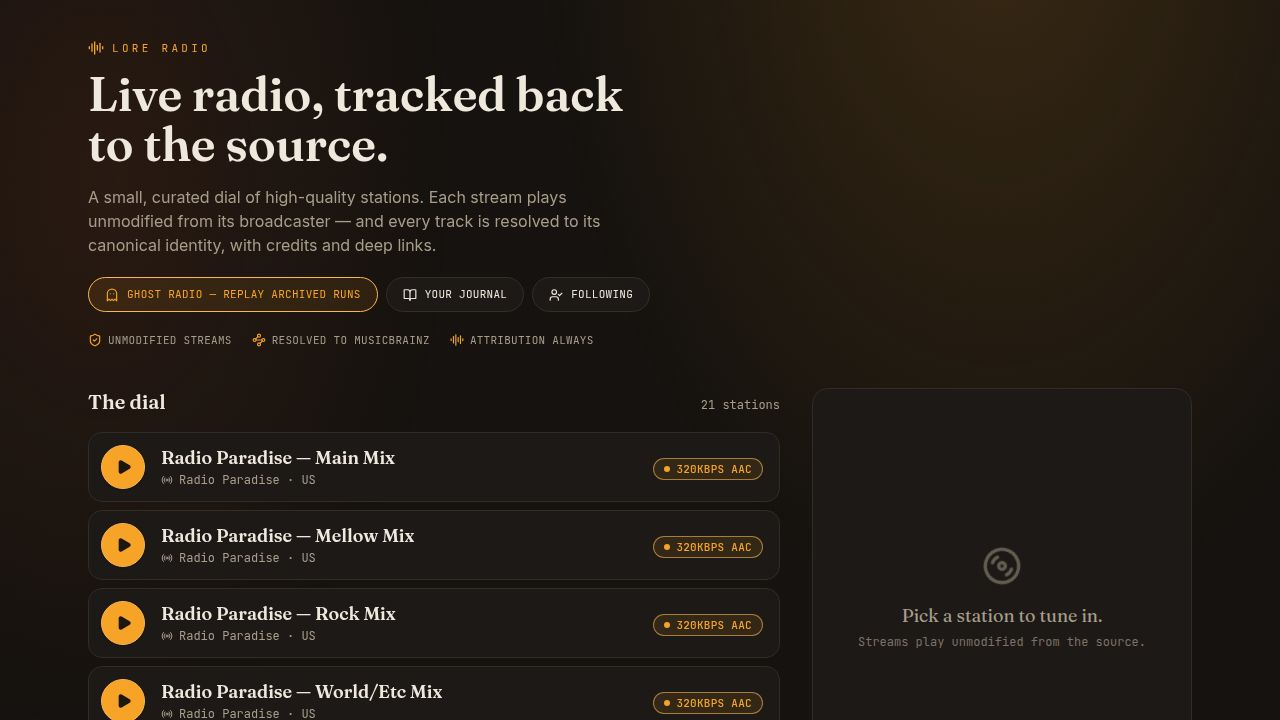
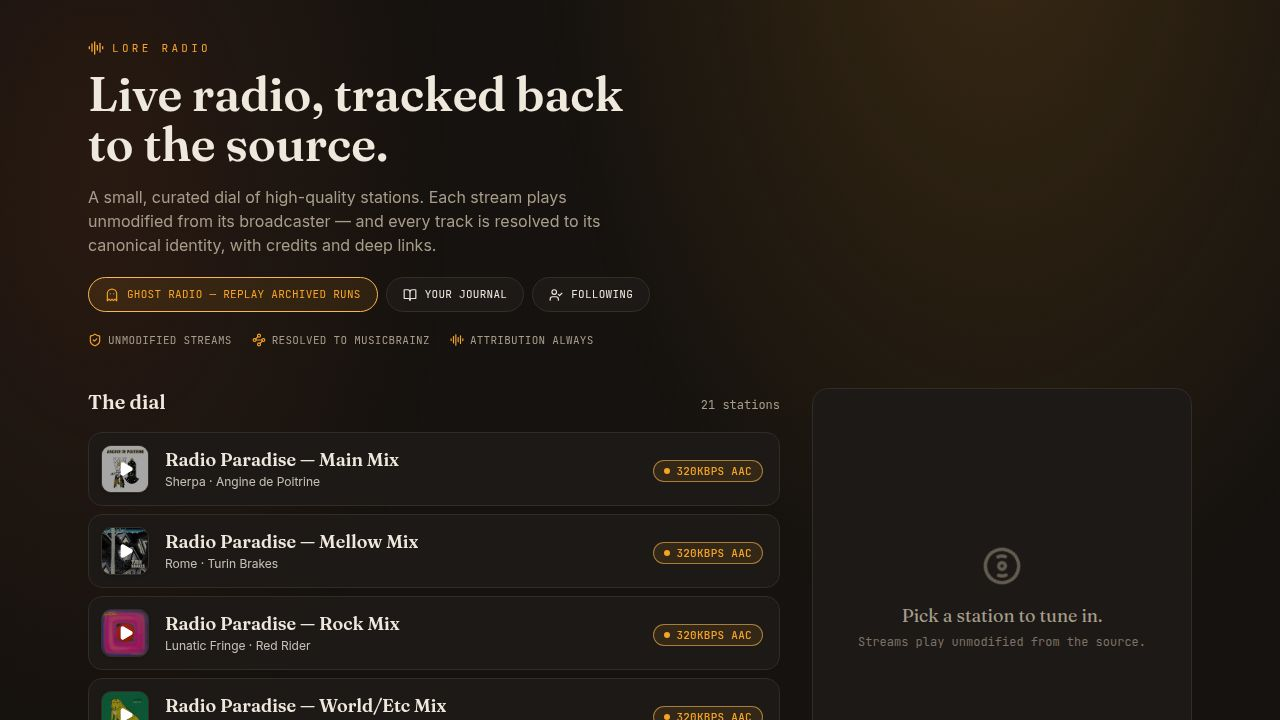
Fix player context crash by separating components from utilities
Move helper functions and constants out of component files to prevent hot-reloading issues and ensure correct context provisioning.

Replit-Commit-Author: Agent
Replit-Commit-Session-Id: 9a42ae9b-f730-4ff3-bba2-7befcfeb9203
Replit-Commit-Checkpoint-Type: full_checkpoint
Replit-Commit-Event-Id: dea3944e-dc5b-445d-b4e7-8bec27840cbb
Replit-Commit-Screenshot-Url: https://storage.googleapis.com/screenshot-production-us-central1/328c7e60-1e3e-4285-858c-1e54fe82d9e8/9a42ae9b-f730-4ff3-bba2-7befcfeb9203/YQJmn8H
Replit-Helium-Checkpoint-Created: true

diff --git a/artifacts/lore/src/components/NowPlaying.tsx b/artifacts/lore/src/components/NowPlaying.tsx
@@ -2,13 +2,12 @@ import { Link } from "wouter";
 import {
   useGetRecordingKnowledge,
   getGetRecordingKnowledgeQueryKey,
-  type Credit,
   type RecordingLink,
   type Station,
   type StationNowPlaying,
-  type TrackKnowledge,
 } from "@workspace/api-client-react";
-import { clockTime, timeAgo } from "../lib/format";
+import { CONFIDENCE_LABEL, clockTime, timeAgo } from "../lib/format";
+import { groupCredits, pressingLine } from "../lib/linerNotes";
 import { LikeButton } from "./LikeButton";
 import { FollowButton } from "./FollowButton";
 import { djFollowId } from "../lib/local";
@@ -27,13 +26,6 @@ interface NowPlayingProps {
   isLoading: boolean;
   fallbackStation: Station | null;
 }
-
-export const CONFIDENCE_LABEL: Record<string, string> = {
-  recording_id: "Confirmed recording",
-  isrc: "Matched by ISRC",
-  text: "Matched by title",
-  unresolved: "Unidentified",
-};
 
 export function NowPlaying({ data, isLoading, fallbackStation }: NowPlayingProps) {
   const station = data?.station ?? fallbackStation;
@@ -181,66 +173,6 @@ export function NowPlaying({ data, isLoading, fallbackStation }: NowPlayingProps
         <StationFooter station={station} playedAt={np?.playedAt} />
       </div>
     </div>
-  );
-}
-
-/** Group raw credits into reader-friendly buckets, mirroring the Slack card. */
-export function groupCredits(personnel: Credit[]): Array<{
-  label: string;
-  names: string;
-}> {
-  const seen = (list: Credit[], cap = 4): string => {
-    const names = [...new Set(list.map((c) => c.name))];
-    return names.length <= cap
-      ? names.join(", ")
-      : `${names.slice(0, cap).join(", ")} +${names.length - cap} more`;
-  };
-  const lower = (c: Credit) => c.role.toLowerCase();
-  const producers = personnel.filter((c) => lower(c).includes("produc"));
-  const writers = personnel.filter((c) =>
-    ["composer", "lyricist", "writer"].includes(lower(c)),
-  );
-  const engineers = personnel.filter(
-    (c) =>
-      lower(c).includes("engineer") ||
-      ["mix", "mastering", "recording"].includes(lower(c)),
-  );
-  const bucketed = new Set([...producers, ...writers, ...engineers]);
-  const performers = personnel.filter((c) => !bucketed.has(c));
-  const rows: Array<{ label: string; names: string }> = [];
-  if (producers.length) rows.push({ label: "Produced by", names: seen(producers) });
-  if (writers.length) rows.push({ label: "Written by", names: seen(writers) });
-  if (engineers.length) rows.push({ label: "Engineered by", names: seen(engineers) });
-  if (performers.length) {
-    const byName = new Map<string, string[]>();
-    for (const c of performers) {
-      const roles = byName.get(c.name) ?? [];
-      if (c.role && c.role !== "performer" && !roles.includes(c.role)) {
-        roles.push(c.role);
-      }
-      byName.set(c.name, roles);
-    }
-    const entries = [...byName.entries()].map(([name, roles]) =>
-      roles.length ? `${name} (${roles.join(", ")})` : name,
-    );
-    rows.push({
-      label: "Performed by",
-      names:
-        entries.length <= 4
-          ? entries.join(", ")
-          : `${entries.slice(0, 4).join(", ")} +${entries.length - 4} more`,
-    });
-  }
-  return rows;
-}
-
-export function pressingLine(k: TrackKnowledge): string | null {
-  const p = k.pressing;
-  if (!p) return null;
-  return (
-    [p.label, p.year ? String(p.year) : null, p.country]
-      .filter(Boolean)
-      .join(" · ") || null
   );
 }
 

diff --git a/artifacts/lore/src/lib/linerNotes.ts b/artifacts/lore/src/lib/linerNotes.ts
@@ -1,0 +1,61 @@
+import type { Credit, TrackKnowledge } from "@workspace/api-client-react";
+
+/** Group raw credits into reader-friendly buckets, mirroring the Slack card. */
+export function groupCredits(personnel: Credit[]): Array<{
+  label: string;
+  names: string;
+}> {
+  const seen = (list: Credit[], cap = 4): string => {
+    const names = [...new Set(list.map((c) => c.name))];
+    return names.length <= cap
+      ? names.join(", ")
+      : `${names.slice(0, cap).join(", ")} +${names.length - cap} more`;
+  };
+  const lower = (c: Credit) => c.role.toLowerCase();
+  const producers = personnel.filter((c) => lower(c).includes("produc"));
+  const writers = personnel.filter((c) =>
+    ["composer", "lyricist", "writer"].includes(lower(c)),
+  );
+  const engineers = personnel.filter(
+    (c) =>
+      lower(c).includes("engineer") ||
+      ["mix", "mastering", "recording"].includes(lower(c)),
+  );
+  const bucketed = new Set([...producers, ...writers, ...engineers]);
+  const performers = personnel.filter((c) => !bucketed.has(c));
+  const rows: Array<{ label: string; names: string }> = [];
+  if (producers.length) rows.push({ label: "Produced by", names: seen(producers) });
+  if (writers.length) rows.push({ label: "Written by", names: seen(writers) });
+  if (engineers.length) rows.push({ label: "Engineered by", names: seen(engineers) });
+  if (performers.length) {
+    const byName = new Map<string, string[]>();
+    for (const c of performers) {
+      const roles = byName.get(c.name) ?? [];
+      if (c.role && c.role !== "performer" && !roles.includes(c.role)) {
+        roles.push(c.role);
+      }
+      byName.set(c.name, roles);
+    }
+    const entries = [...byName.entries()].map(([name, roles]) =>
+      roles.length ? `${name} (${roles.join(", ")})` : name,
+    );
+    rows.push({
+      label: "Performed by",
+      names:
+        entries.length <= 4
+          ? entries.join(", ")
+          : `${entries.slice(0, 4).join(", ")} +${entries.length - 4} more`,
+    });
+  }
+  return rows;
+}
+
+export function pressingLine(k: TrackKnowledge): string | null {
+  const p = k.pressing;
+  if (!p) return null;
+  return (
+    [p.label, p.year ? String(p.year) : null, p.country]
+      .filter(Boolean)
+      .join(" · ") || null
+  );
+}

diff --git a/artifacts/lore/src/lib/format.ts b/artifacts/lore/src/lib/format.ts
@@ -33,3 +33,10 @@ export function runDate(isoOrDay: string): string {
     timeZone: "UTC",
   });
 }
+
+export const CONFIDENCE_LABEL: Record<string, string> = {
+  recording_id: "Confirmed recording",
+  isrc: "Matched by ISRC",
+  text: "Matched by title",
+  unresolved: "Unidentified",
+};

diff --git a/artifacts/lore/src/pages/Song.tsx b/artifacts/lore/src/pages/Song.tsx
@@ -10,7 +10,8 @@ import {
   type SegueNext,
 } from "@workspace/api-client-react";
 import { usePlayer } from "../player/PlayerProvider";
-import { DeepLinks, CONFIDENCE_LABEL } from "../components/NowPlaying";
+import { DeepLinks } from "../components/NowPlaying";
+import { CONFIDENCE_LABEL } from "../lib/format";
 import { ShareButton } from "../components/ShareButton";
 import { clockTime, timeAgo } from "../lib/format";
 import {

diff --git a/artifacts/lore/src/components/ArchiveTracklist.tsx b/artifacts/lore/src/components/ArchiveTracklist.tsx
@@ -2,7 +2,7 @@ import { Link } from "wouter";
 import type { ArchiveTrack } from "@workspace/api-client-react";
 import { usePlayer } from "../player/PlayerProvider";
 import type { TimeOrientation } from "../player/playbackSession";
-import { CONFIDENCE_LABEL } from "./NowPlaying";
+import { CONFIDENCE_LABEL } from "../lib/format";
 import { clockTime } from "../lib/format";
 import { Ghost, Play } from "lucide-react";
 

diff --git a/artifacts/lore/test/liveLore.test.ts b/artifacts/lore/test/liveLore.test.ts
@@ -1,6 +1,6 @@
 import { describe, expect, it } from "vitest";
 import { djFollowId, parseDjFollowId } from "../src/lib/local";
-import { groupCredits, pressingLine } from "../src/components/NowPlaying";
+import { groupCredits, pressingLine } from "../src/lib/linerNotes";
 import type { Credit, TrackKnowledge } from "@workspace/api-client-react";
 
 describe("DJ follow ids", () => {

diff --git a/.agents/memory/fast-refresh-mixed-exports.md b/.agents/memory/fast-refresh-mixed-exports.md
@@ -1,0 +1,10 @@
+---
+name: Fast Refresh mixed exports → phantom context crash
+description: Why exporting constants/helpers from React component files causes "must be used within a Provider" crashes during HMR, and the boundary rule to prevent it.
+---
+
+**Rule:** Component files (.tsx rendering components) must export *only* React components. Constants, pure helpers, and hooks-adjacent utilities live in `lib/*` modules.
+
+**Why:** Vite React Fast Refresh can't hot-swap a module that mixes component and non-component exports ("export is incompatible" / "new export" invalidate). The invalidation cascade can re-instantiate a context provider module while mounted consumers still hold the old one — two `?t=` timestamps of the same module → two distinct Context objects → a consumer correctly nested inside the provider still crashes with "useX must be used within a XProvider". The crash looks like a tree-structure bug but App.tsx is fine; check the stack's module timestamps.
+
+**How to apply:** When adding exports to a component file for testability (pure formatting/grouping helpers), put them in a `lib/` module instead and import them. If the crash appears anyway during dev, a full restart/reload of the dev server clears the split-module state — but fix the export boundary or it recurs on every HMR touch.

diff --git a/.agents/memory/MEMORY.md b/.agents/memory/MEMORY.md
@@ -22,5 +22,6 @@
 - [api-server test location](api-server-test-location.md) — vitest only runs `test/**`; colocated src/*.test.ts files are silently skipped, so verify the suite count grows after adding tests.
 - [Lore archive runs model](lore-archive-runs-model.md) — runs are derived groupings (runId=min(id) anchor, null-safe showId), replay is a player mode with fixed queue + honest gaps, backfill 1s-nudge loop-guard.
 - [Ride player state machine](lore-ride-player-state-machine.md) — key effects off current-item identity not whole queue; patch async results by MBID never captured index; remote (Spotify) playback: live snapshot is authority.
+- [Fast Refresh mixed exports](fast-refresh-mixed-exports.md) — component files must export only components; mixed exports split HMR module instances → phantom "must be used within Provider" crashes despite correct tree.
 - [Share-card SSRF guard](share-card-ssrf-guard.md) — server-side artwork fetch off DB URLs is attacker-influenced: https-only + private-IP block, re-validate every redirect hop (CAA 307s, so redirect:"error" kills artwork).
 - [Lore local-first listener layer](lore-local-first-listener-layer.md) — journal/follows are localStorage-only by design (no accounts); logger trigger key must be ≥ dedup identity or listens drop.